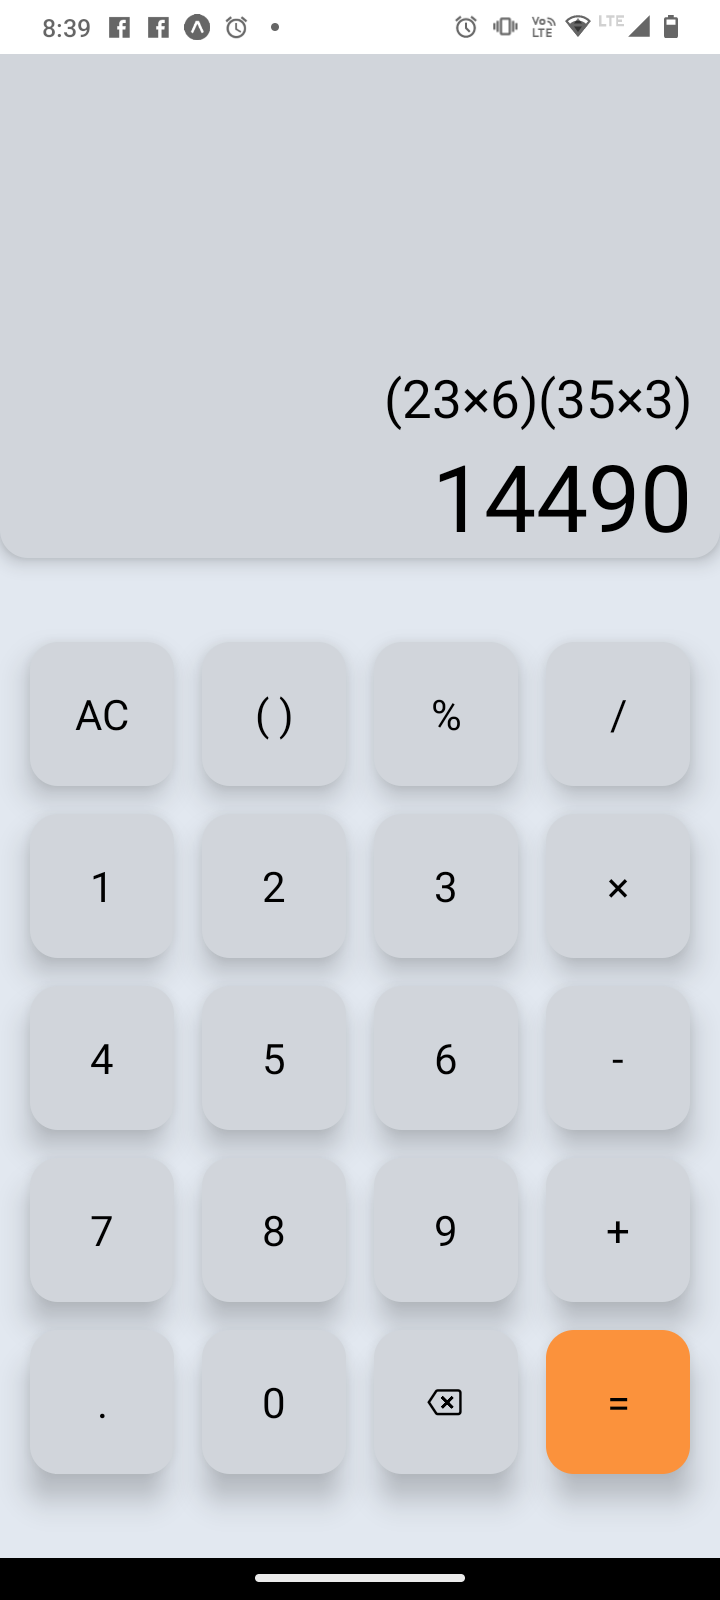
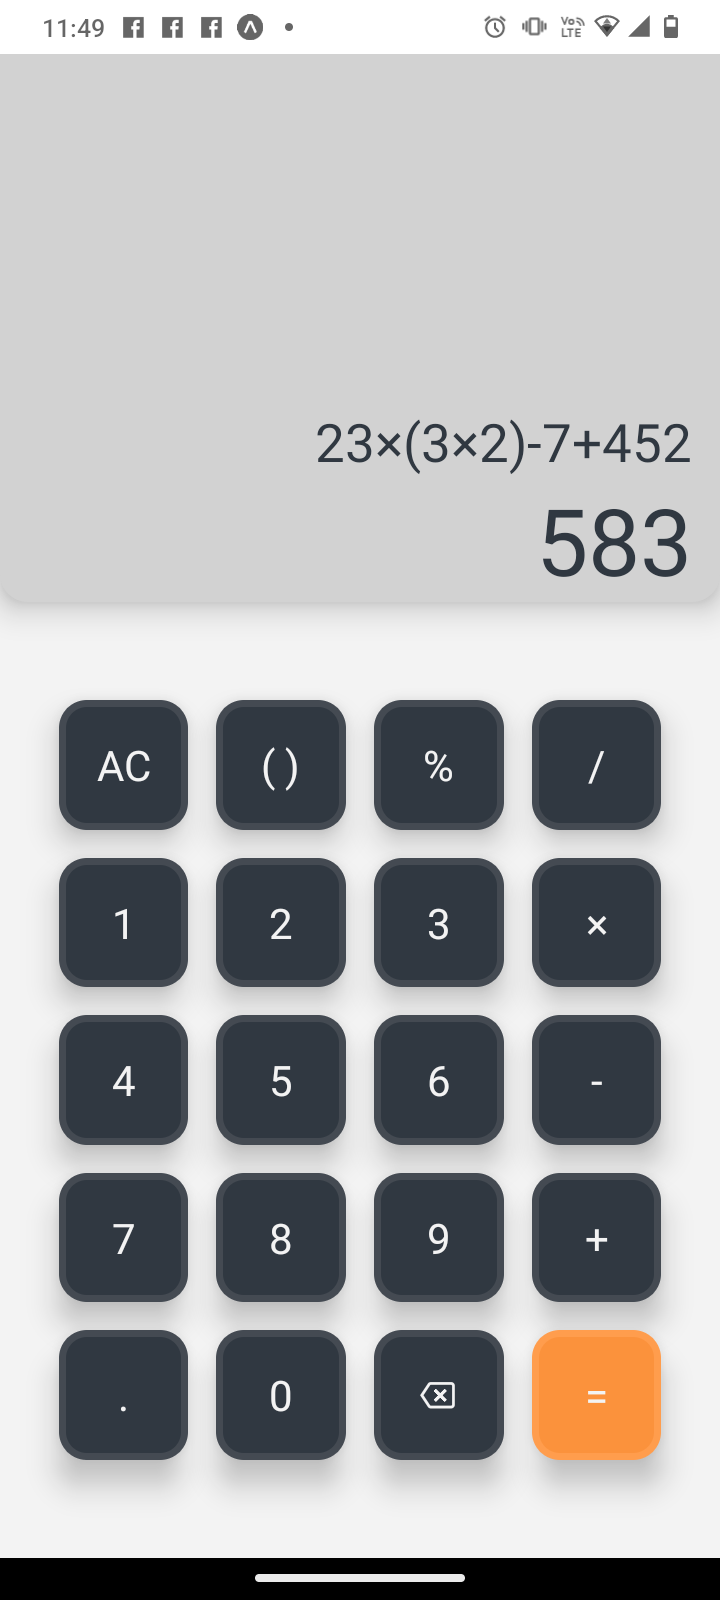
UI design change

diff --git a/App.js b/App.js
@@ -10,27 +10,27 @@ export default function App() {
   const [currentValue, setCurrentValue] = useState('')
 
   return (
-    <SafeAreaView className='bg-slate-200 w-full h-full'>
+    <SafeAreaView className='bg-[#f3f3f3] w-full h-full'>
       <StatusBar
         backgroundColor='white'
         barStyle='dark-content'
       />
-      <View className='bg-gray-300 flex-1 rounded-b-2xl justify-end items-end shadow-lg shadow-black'>
+      <View className='bg-[#d2d2d2] flex-1 rounded-b-2xl justify-end items-end  shadow-xl shadow-black'>
         <Text
-          className='text-[30px] mx-4 '
+          className='text-[30px] mx-4 text-[#303841]'
           style={{ textAlign: 'right' }}
         >
           {prevValue}
         </Text>
 
         <Text
-          className='text-[53px] mx-4 '
+          className='text-[53px] mx-4 text-[#303841]'
           style={{ textAlign: 'right' }}
         >
           {currentValue}
         </Text>
       </View>
-      <View className='flex-row flex-wrap justify-center my-10 '>
+      <View className='flex-row flex-wrap justify-center my-12 mx-4'>
         <StateContext.Provider value={{ prevValue, setPrevValue, setCurrentValue }}>
           <Button
             value='AC'
@@ -109,7 +109,7 @@ export default function App() {
               <Ionicons
                 name='backspace-outline'
                 size={24}
-                color='black'
+                color='#f3f3f3'
               />
             }
             operation='backspace'

diff --git a/components/Btn.js b/components/Btn.js
@@ -21,13 +21,13 @@ const Btn = ({ value, operation }) => {
 
   return (
     <TouchableOpacity
-      className={`justify-center items-center m-2 p-2 rounded-2xl  ${value === '=' ? ' bg-orange-400' : 'bg-gray-300'} shadow-xl shadow-black`}
+      className={`justify-center items-center m-2 p-2 rounded-2xl  ${value === '=' ? ' bg-orange-400 border-4 border-[#ff9d4d]' : 'bg-[#303841] border-4 border-[#444a52]'} shadow-xl shadow-black`}
       onPress={() => {
         chosenOperation.func(...chosenOperation.arguments)
       }} // Spread the previous state and add the value
-      style={{ width: width * 0.2, height: width * 0.2 }}
+      style={{ width: width * 0.18, height: width * 0.18 }}
     >
-      <Text className='text-2xl'>{value}</Text>
+      <Text className='text-2xl text-[#f3f3f3]'>{value}</Text>
     </TouchableOpacity>
   )
 }

diff --git a/utils/operations.js b/utils/operations.js
@@ -65,7 +65,7 @@ export function percentages(prevValue, setPrevValue, setCurrentValue) {
 export function equals(prevValue, setPrevValue, setCurrentValue) {
   const expresion = handleBrackets(prevValue)
   let result = math.evaluate(expresion)
-  if (result === Infinity) {
+  if (result === Infinity || result === -Infinity) {
     result = ''
     Alert.alert('Divide by 0 cannot be done.')
   }
@@ -87,7 +87,7 @@ function handleBrackets(value) {
 function update(input, setPrevValue, setCurrentValue) {
   const expresion = handleBrackets(input)
   let result = math.evaluate(expresion)
-  if (result === Infinity) {
+  if (result === Infinity || result === -Infinity) {
     result = ''
     Alert.alert('Divide by 0 cannot be done.')
     setCurrentValue(result)
